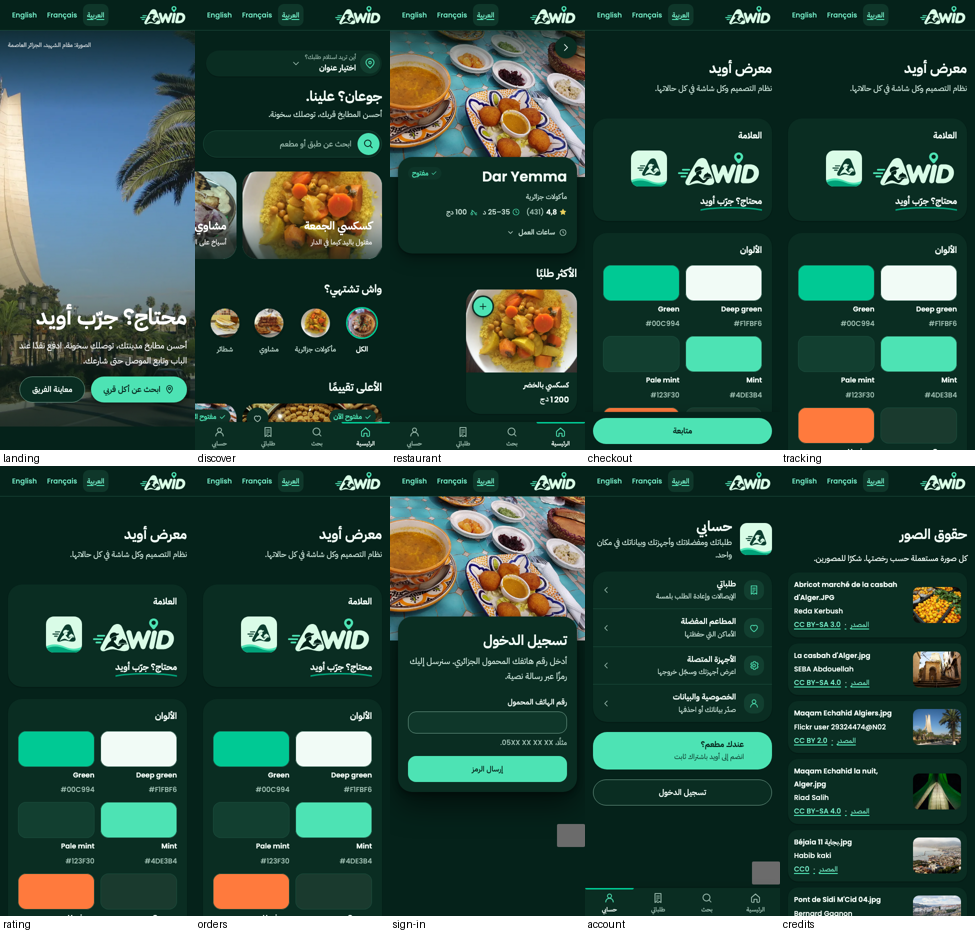
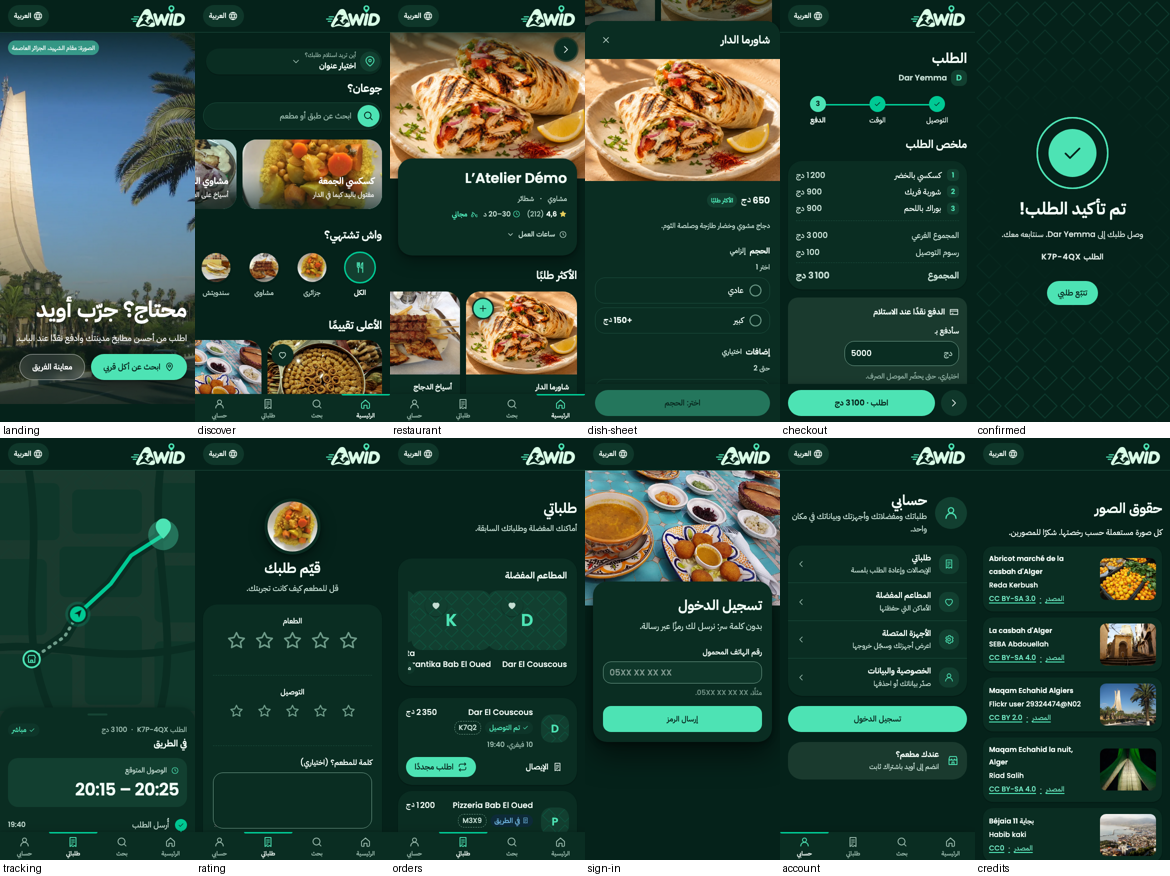
docs(evidence): redo the AWID sweep on a production build with real screens

diff --git a/apps/web/src/checkout/checkout.css b/apps/web/src/checkout/checkout.css
@@ -572,3 +572,24 @@
     transition: none;
   }
 }
+
+/* Dark mode: primary is mint there, so the celebration keeps a deep green field. */
+@media (prefers-color-scheme: dark) {
+  :root:not([data-theme="light"]) .checkout-confirmed {
+    background-color: var(--color-bg);
+    color: var(--color-text);
+  }
+
+  :root:not([data-theme="light"]) .checkout-confirmed::before {
+    background: radial-gradient(circle at 50% 45%, var(--color-bg) 30%, transparent 75%);
+  }
+}
+
+:root[data-theme="dark"] .checkout-confirmed {
+  background-color: var(--color-bg);
+  color: var(--color-text);
+}
+
+:root[data-theme="dark"] .checkout-confirmed::before {
+  background: radial-gradient(circle at 50% 45%, var(--color-bg) 30%, transparent 75%);
+}

diff --git a/docs/evidence/awid/sweep/README.md b/docs/evidence/awid/sweep/README.md
@@ -1,7 +1,20 @@
-# AWID final sweep (2026-11-11)
+# AWID final sweep (redone 2026-11-12)
 
-Ten customer screens (landing, discover, restaurant, checkout, tracking, rating, orders,
-sign-in, account, credits) in Arabic 390 px light and dark and French 390 px and 1280 px light.
-Checked by script: no horizontal overflow outside the deliberate scroll rails and no console
-errors other than Next's dev-tools inline-style notices (development only). Contact sheets are
-in this folder; per-screen screenshots are in the sibling folders.
+Captured against a **production design build** (`next build` + `next start` with the preview
+catalog), so there is no development overlay. Every tile is the real screen at its real route,
+in a realistic state:
+
+- landing, discover, restaurant, dish sheet (opened from the menu), sign-in, account, credits:
+  the live pages on the preview catalog;
+- checkout (payment step), confirmed, tracking, rating, orders: the full-page design routes
+  `/[locale]/dev/screens/*`, which render the shipped page components with fixture data because
+  the preview API is read-only.
+
+`screens/` holds all 48 captures (12 screens × ar 390 light, fr 390 light, fr 1280 light,
+ar 390 dark); `sheet-*.png` are the contact sheets; `report.txt` lists each capture with
+horizontal overflow and console errors: 48 of 48 clean.
+
+The sweep found one defect, fixed before the final run: the confirmed moment rendered mint on mint
+in dark mode.
+
+Design-loop rounds with written flaws are in the per-screen folders (`../<screen>/round-N/flaws.md`).

diff --git a/docs/progress/lane-b.md b/docs/progress/lane-b.md
@@ -82,3 +82,5 @@
   Next: T9 — final sweep of every customer screen through the design loop (390 ar, 390 fr, 1280 fr, dark), fix what fails, push.
 - 2026-11-11 · AWID T9 final sweep: 10 customer screens × (ar 390 light/dark, fr 390, fr 1280) — no overflow, no console errors beyond dev tools; contact sheets in docs/evidence/awid/sweep. Lane B sprint list complete.
   Next: follow-ups only — SSE + AWID basemap + push contract import when lane A merges them (docs/requests/lane-b-tracking.md); restaurant reviews on the restaurant page once a public reviews route exists.
+- 2026-11-12 · Mahdi review redone: design loop with written flaws per round — Discovery, Restaurant + dish sheet, Tracking ×3 rounds; Checkout, Rating, Orders, Landing, Sign-in, Account, Credits ×2 rounds. Compact phone language menu, 48 px logo, "most ordered" never a lone card, fly-to-cart, rolling total, gliding marker with travelled/remaining route, desktop cart panel. Sweep redone on a production build with real screens (docs/evidence/awid/sweep): 48/48 clean.
+  Next: follow-ups only (SSE, AWID basemap and push contract import when lane A merges them).
